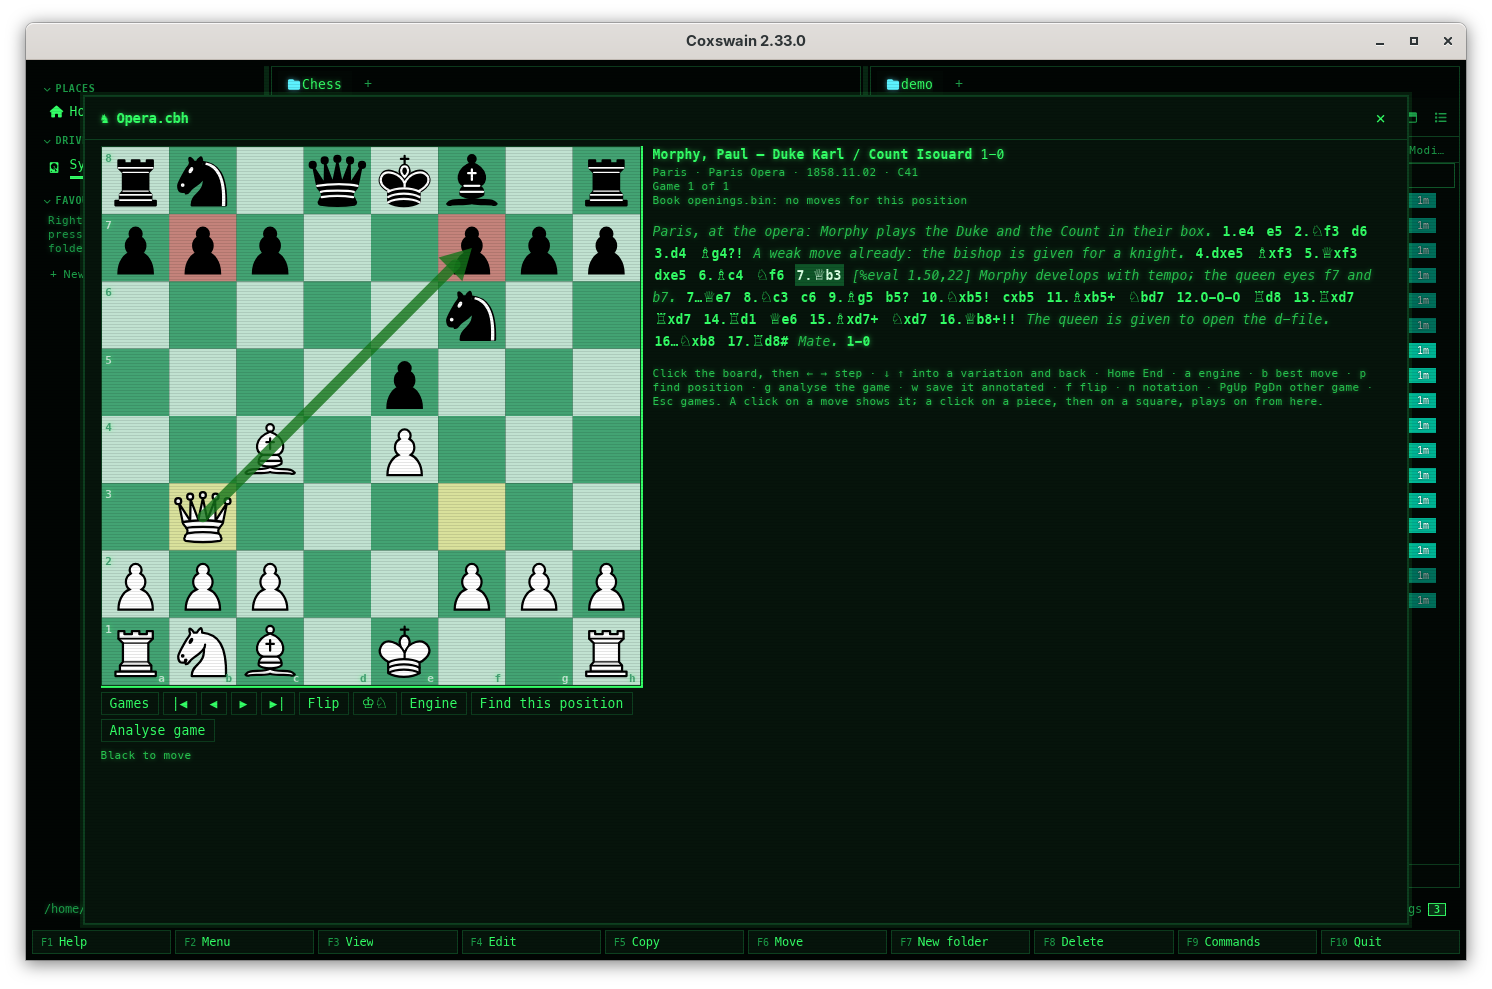
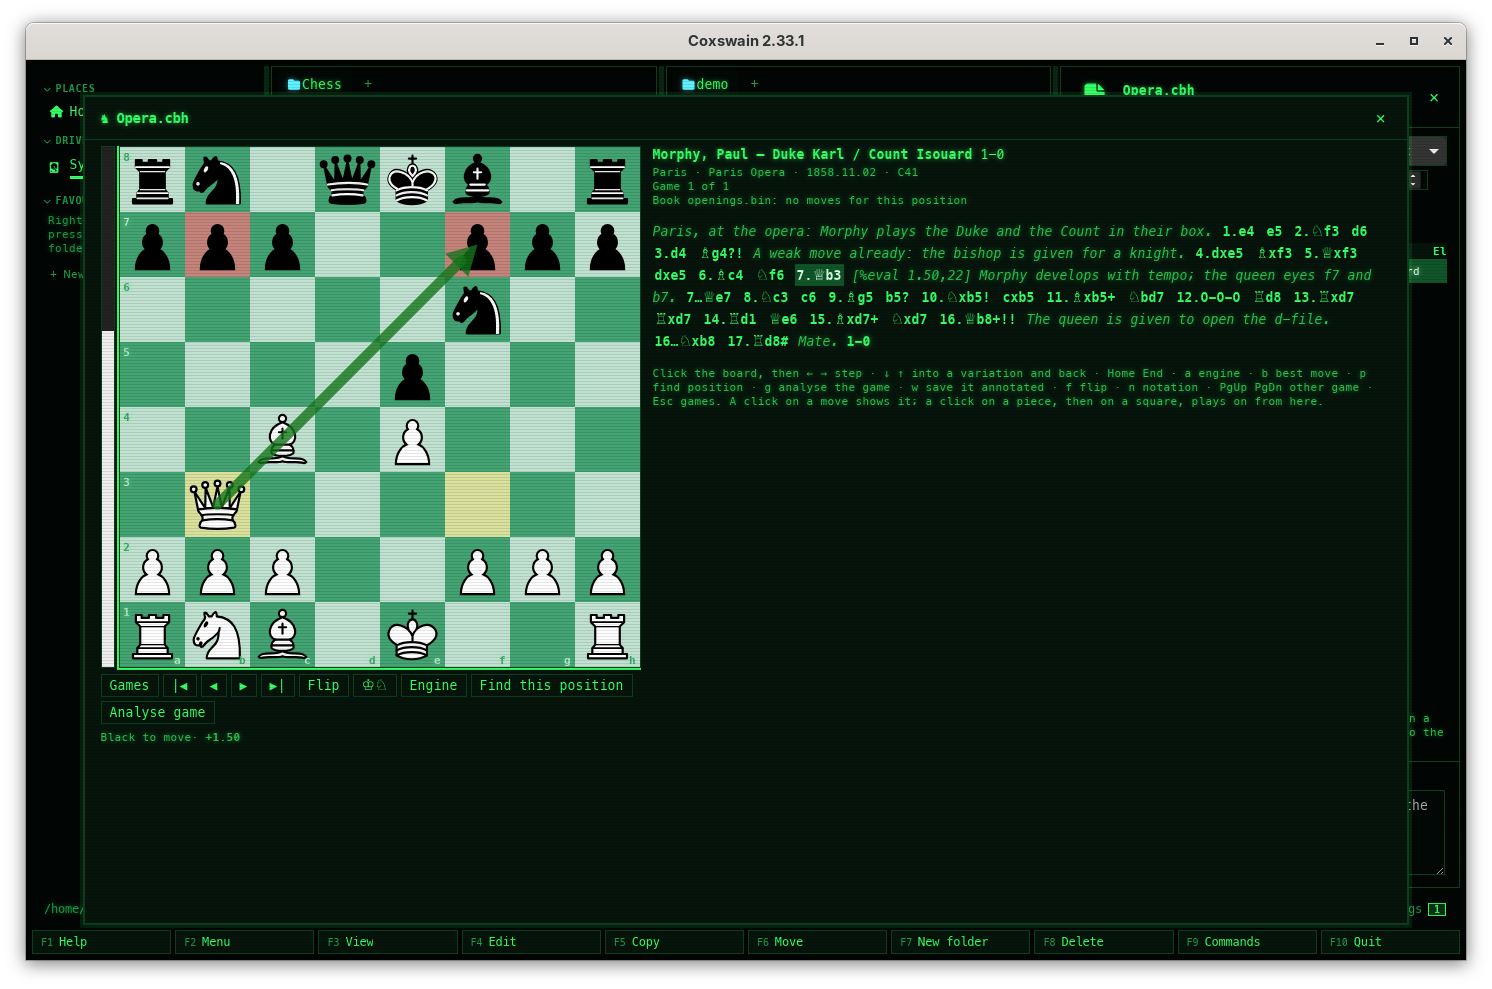
Chess: a GIF of stepping through an engine line; the annotated ChessBase picture with its evaluation bar

diff --git a/docs/previews/chess-play.md b/docs/previews/chess-play.md
@@ -256,6 +256,8 @@ where a line leads without playing it, as you would step through a variation of 
 | Play the line up to the move shown | **Enter**, or *Play this line* | **Enter** |
 | Another line | Its number | The same |
 
+<picture><source media="(prefers-reduced-motion: reduce)" srcset="../screenshots/gui-chess-engine-line.png"><img src="../screenshots/gui-chess-engine-line.gif" alt="The Opera Game in the desktop app at 15...Nxd7 with Stockfish's three lines: 1 shows the first line's first move on the board, the right arrow steps on to the mate, Esc goes back to the game; then 2 shows the second line and the right arrow steps through three of its moves, the line's moves lit as they are shown, and Esc goes back"></picture>
+
 What you see: the board shows the line's position with its last move tinted, and the line's
 evaluation stands beside the board. In the list of lines, the line's moves up to the one shown
 are lit, that move is marked as the game's move shown is, the rest stays grey, and under the

diff --git a/docs/previews/chess.md b/docs/previews/chess.md
@@ -109,7 +109,7 @@ app: the squares tinted, an arrow's end square in its colour and its start light
 arrows written under the board in their colours, `→ b3–f7`. A move you play on from there
 shows none. ChessBase's annotations come in this way ([ChessBase databases](#chessbase-databases)).
 
-![The Opera Game at 7.Qb3 read from an annotated ChessBase database in the desktop app: a green arrow from b3 to f7, f7 and b7 tinted red, the comment with the engine's evaluation beside the moves](../screenshots/gui-chess-cbh-notes.png)
+![The Opera Game at 7.Qb3 read from an annotated ChessBase database in the desktop app: a green arrow from b3 to f7, f7 and b7 tinted red, the comment with the engine's evaluation beside the moves, and that evaluation on the bar beside the board and as +1.50 under it, with no engine running](../screenshots/gui-chess-cbh-notes.png)
 
 | Key | Desktop app | Terminal app |
 |---|---|---|
